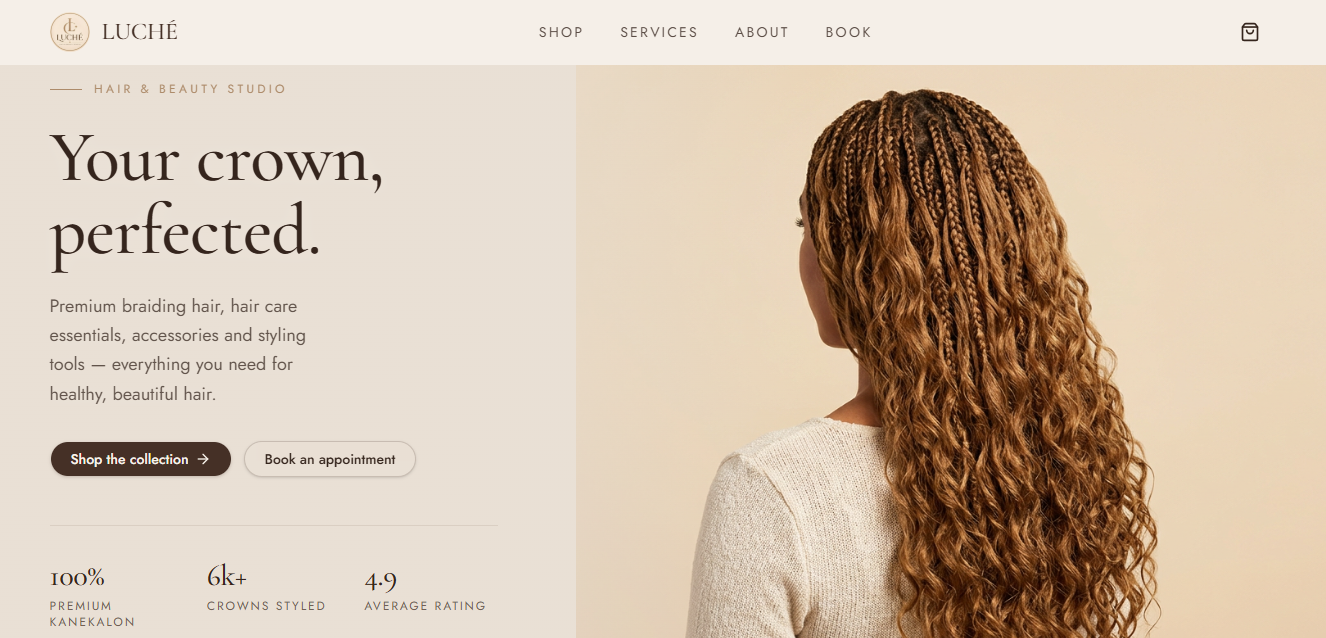
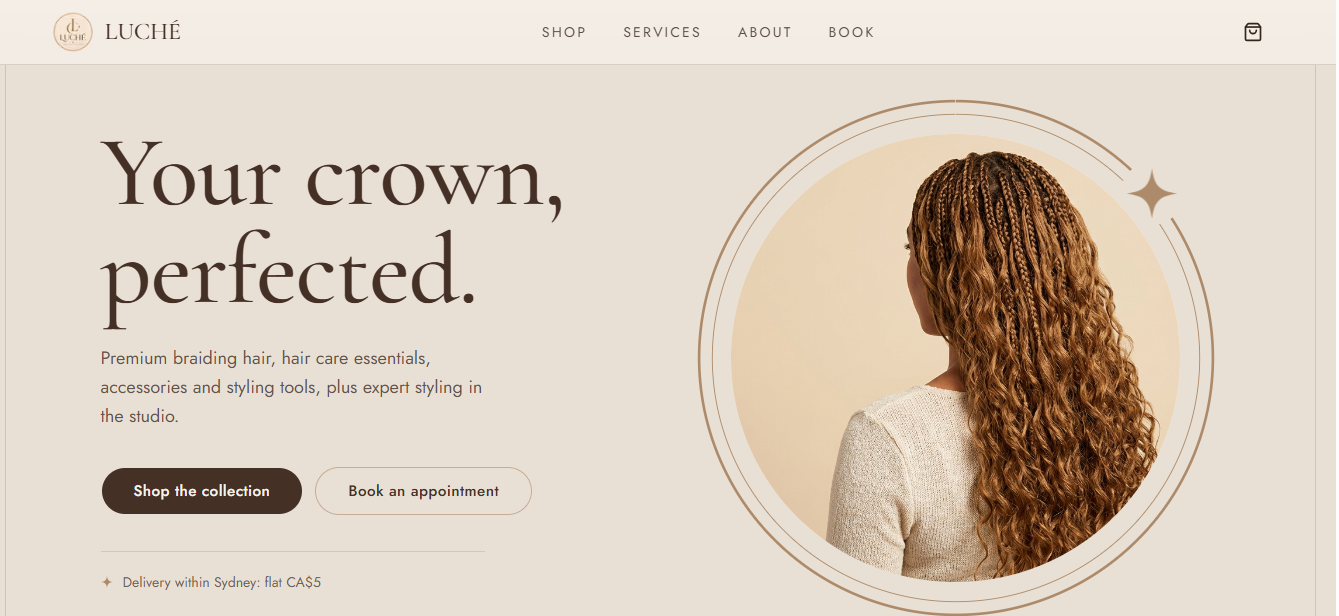
updated luche image and ciep url

diff --git a/src/components/Exhibits.tsx b/src/components/Exhibits.tsx
@@ -54,7 +54,7 @@ const projects: Project[] = [
   {
     title: "Clinical Encounter Intake Platform - CEIP",
     desc: "CEIP is a React web interface for exploring the CEIP clinical data workflow. It provides a project overview and role-aware workspace for managing patients, encounters, notes, extraction results, analytics, audit logs, and clinic administration. It connects to the separately hosted CEIP backend. CEIP explores how a clinic-scoped backend can ingest patient encounters, turn note text into structured candidate data, and make access traceable. It combines a FastAPI API with a React demo interface, PostgreSQL persistence, tenant-aware authorization, audit logging, and a small explainable extraction pipeline.",
-    demo: "https://ceip.vercel.app/",
+    demo: "https://ciep-flax.vercel.app/",
     code: "https://github.com/dfran6/Clinical-Encounter-Intake-Platform-CEIP---Frontend",
     image: "ciep.png",
     index: 4,
